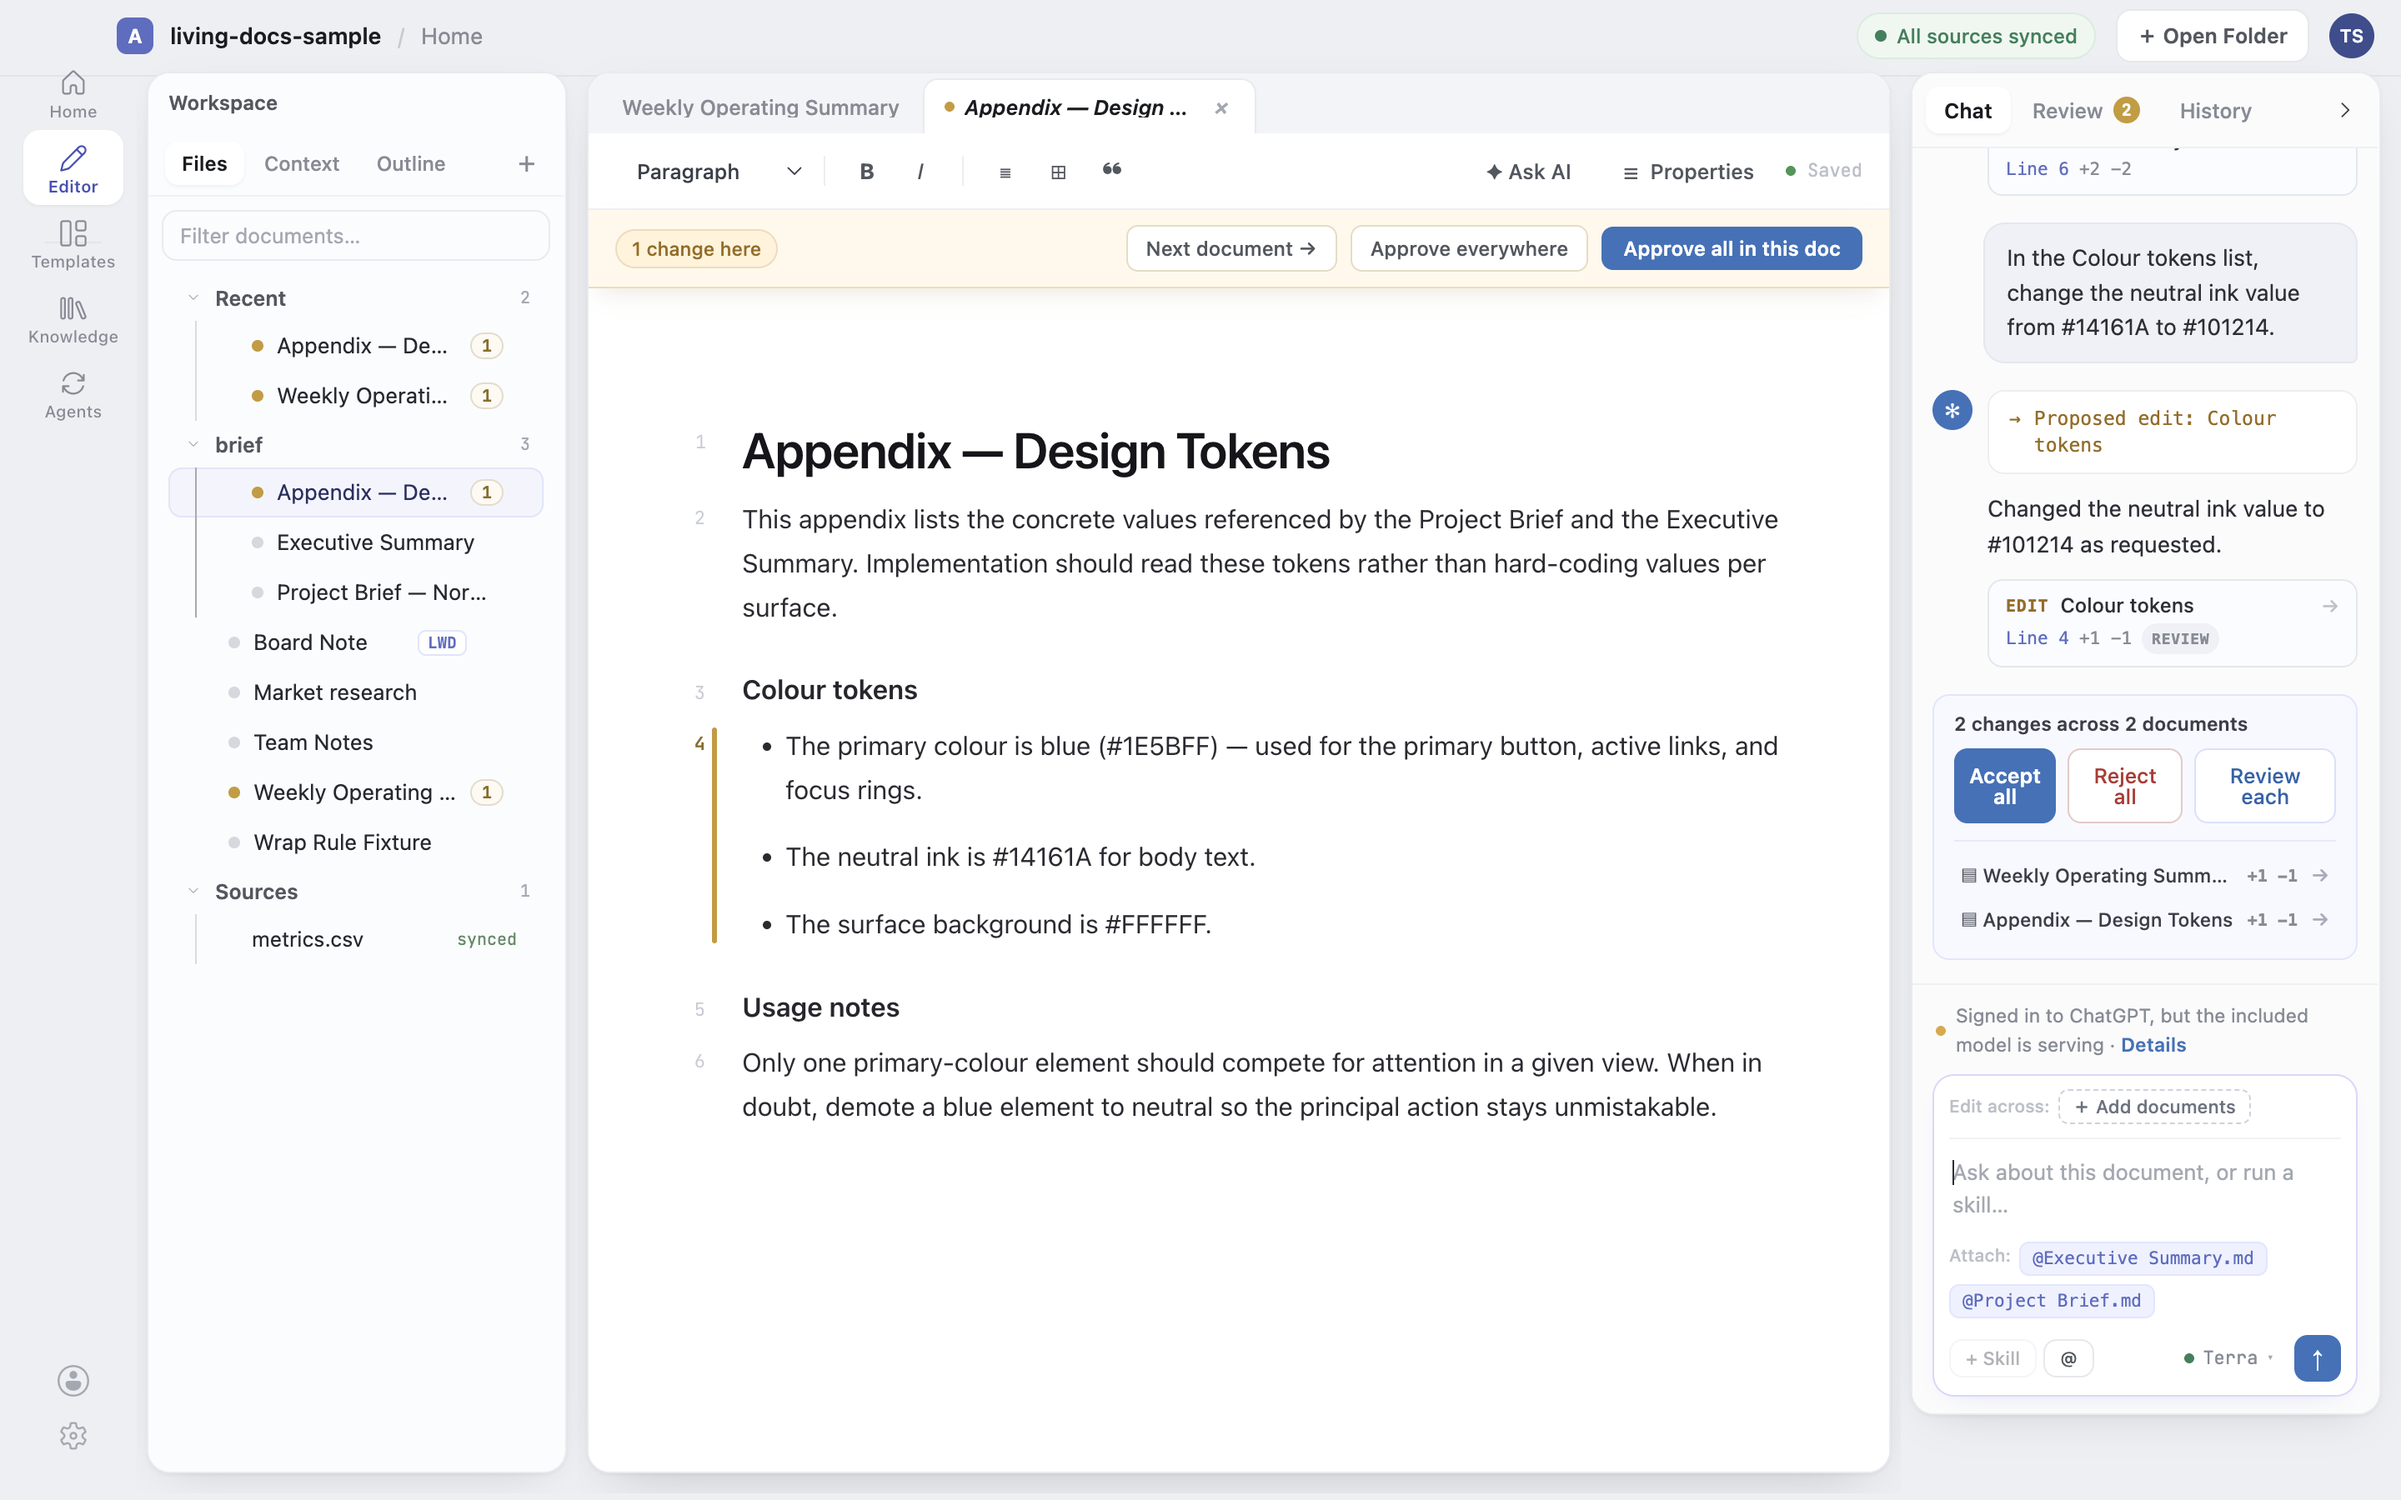
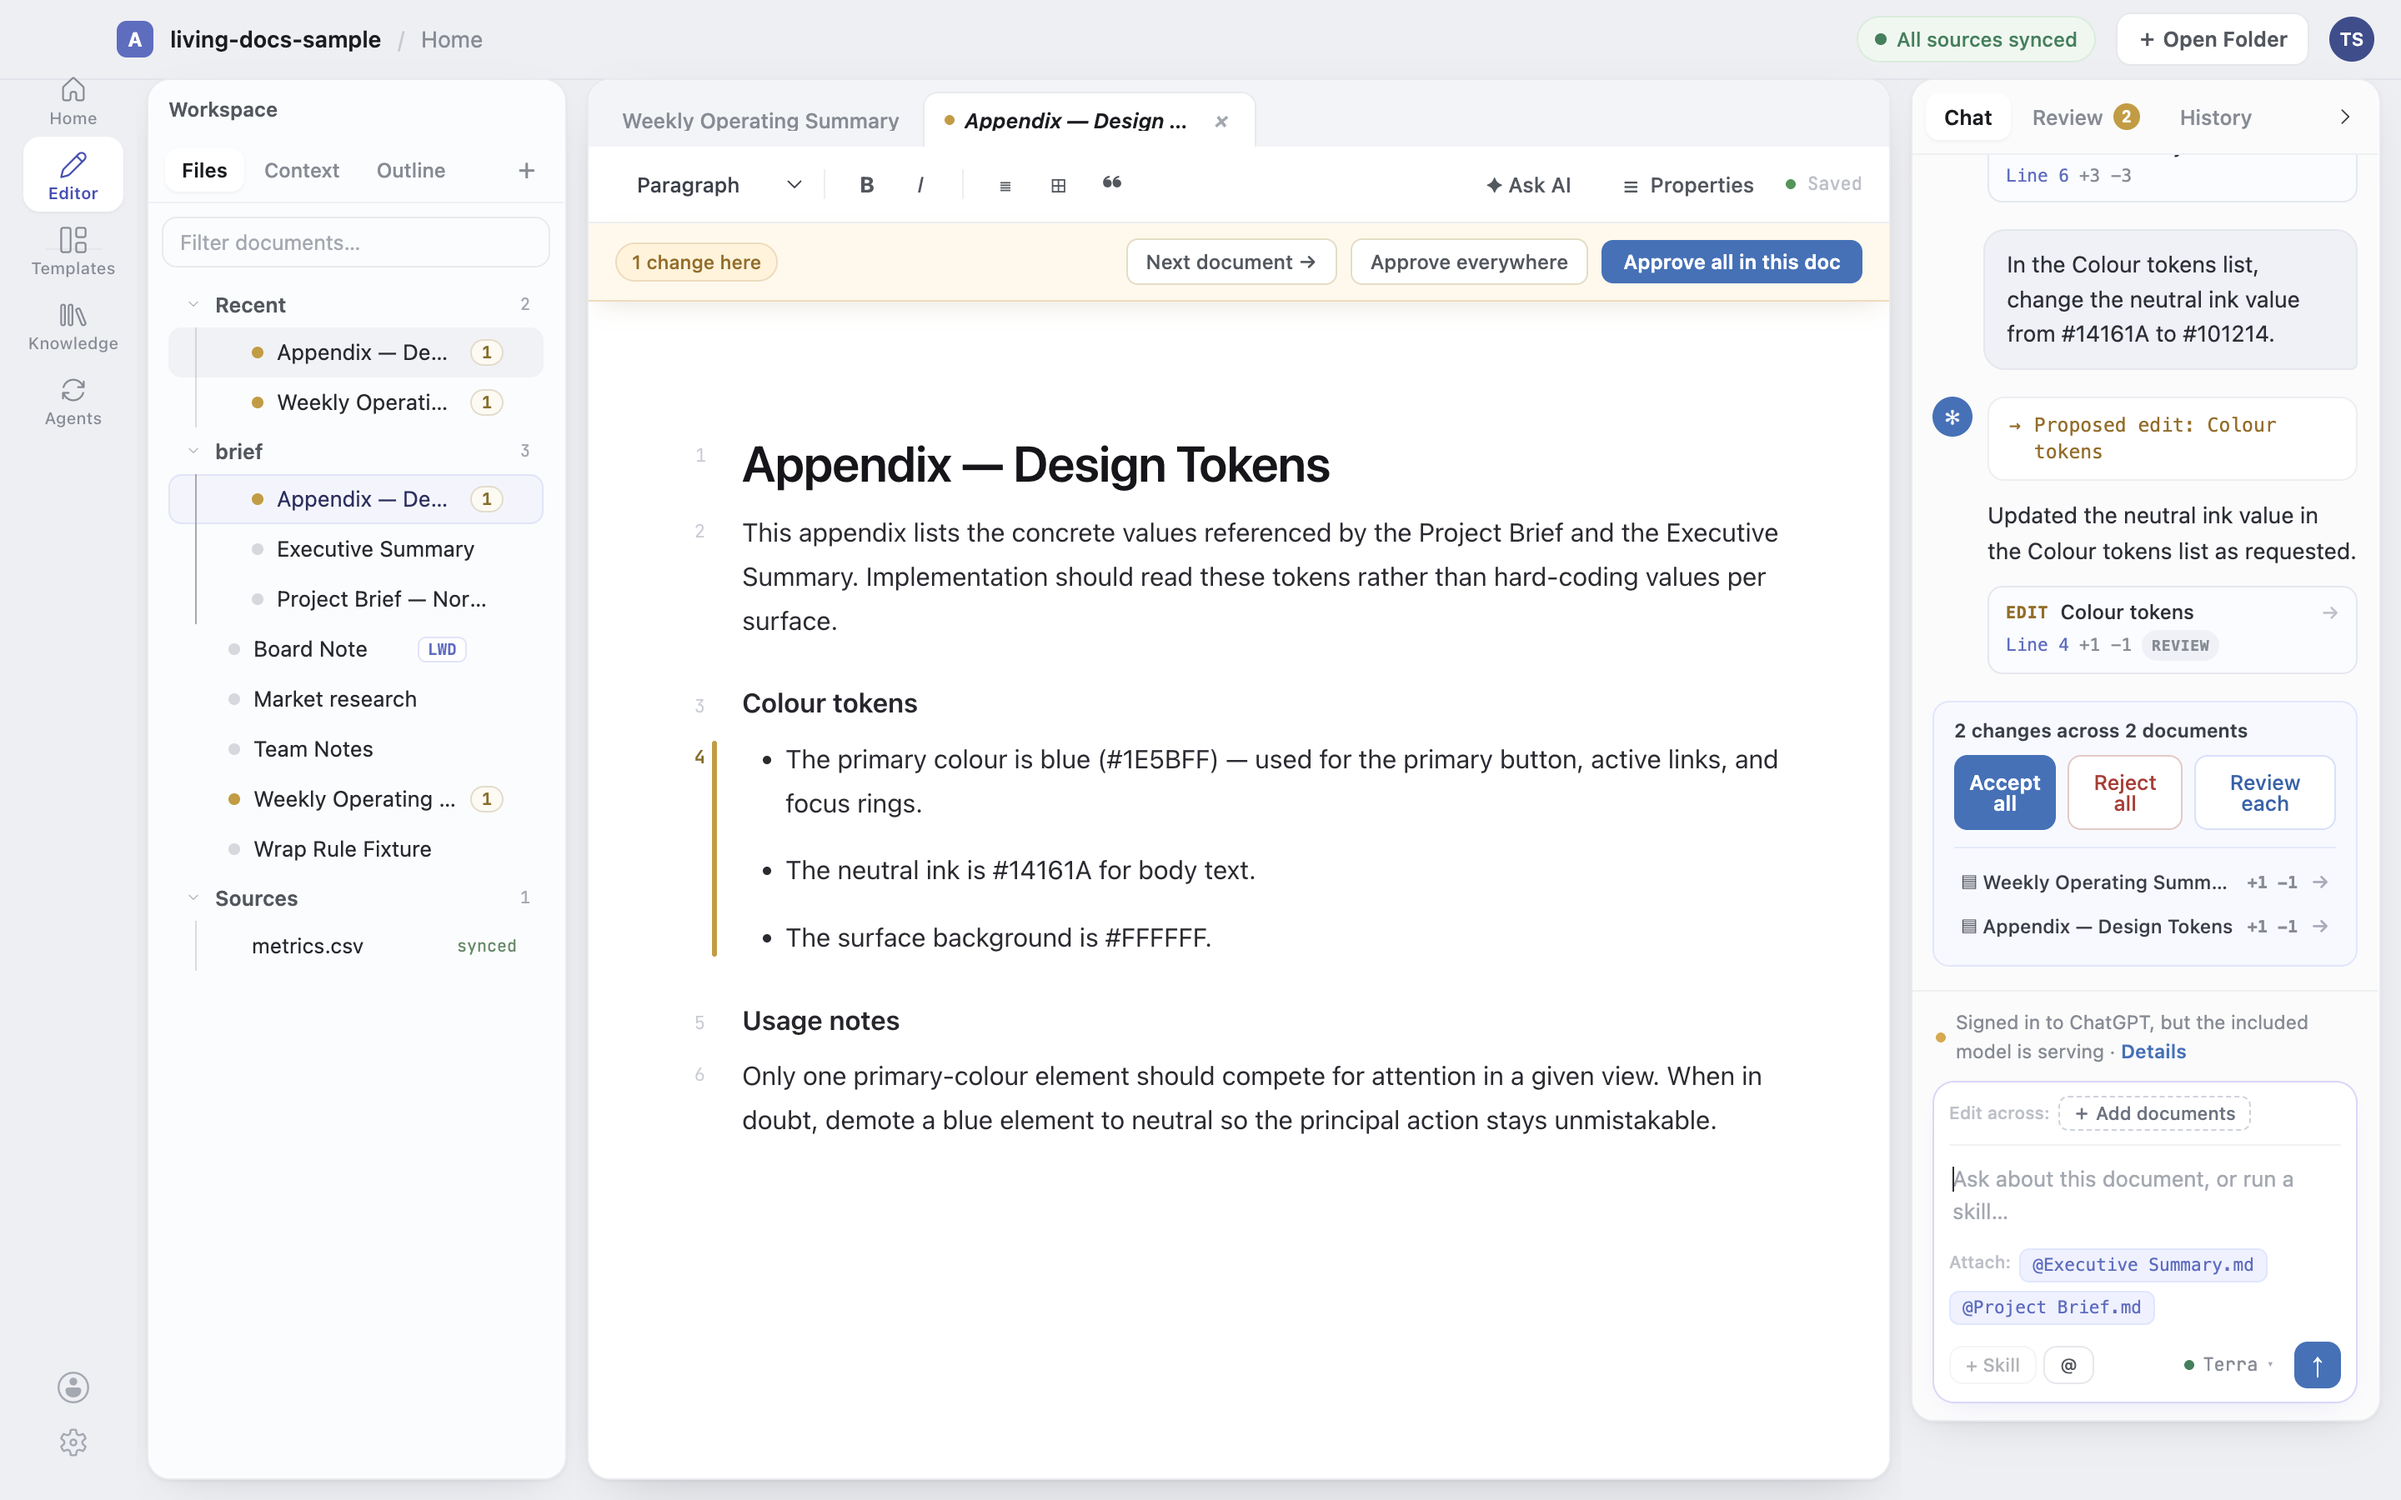
fix(chat): a repeat pointer click flashes again (plan 52 WP-A1, #301)
Caught in the live walk: clicking a pointer whose document was already open landed silently. The redundant
loadDocument fired onDidChange, the editor re-rendered its webview, and the rebuild dropped the reveal
flash that had just been applied. The document route now reuses the shipped navigate-to-inline path.

diff --git a/src/vs/workbench/contrib/livingDocs/browser/reviewRailView.ts b/src/vs/workbench/contrib/livingDocs/browser/reviewRailView.ts
@@ -1297,9 +1297,15 @@ export class ReviewRailView extends ViewPane {
 			await this._editors.openEditor({ resource });
 			return;
 		}
-		await this._livingDocs.loadDocument(resource);
-		const route = changePointerRoute(this._livingDocs.getDoc(resource), change);
-		if (route === 'review') {
+		// Load only when the document is not already parsed. A redundant load fires `onDidChange`, which re-renders
+		// the editor's webview and rebuilds its decorations - and that rebuild wiped the reveal flash that had
+		// just been applied, so a second click on the same pointer landed silently. Caught in the live walk.
+		let doc = this._livingDocs.getDoc(resource);
+		if (!doc) {
+			await this._livingDocs.loadDocument(resource);
+			doc = this._livingDocs.getDoc(resource);
+		}
+		if (changePointerRoute(doc, change) === 'review') {
 			// No inline widget to land on (#300 - a list, table or any block whose Markdown carries syntax). Send
 			// the reader to the Review tab, which renders the full red/green diff and Approve & apply / Reject for
 			// exactly this change. `reviewBlock` also scrolls the document to the block and flashes it, so the
@@ -1307,13 +1313,11 @@ export class ReviewRailView extends ViewPane {
 			await this._livingDocs.reviewBlock(resource, pointer.blockId);
 			return;
 		}
-		// Both reveal seams are used deliberately. `revealBlockAddress` scrolls to and flashes the BLOCK, which
-		// works for any block at all; `focusChange` scrolls to and flashes the WIDGET, which is the change itself
-		// and is the only thing that can land an insertion (it has no block of its own to address). Firing both
-		// means the click is never dead: if the widget is there it wins the scroll, and if the prediction was
-		// wrong the block flash still shows the reader where they were taken.
-		await this._livingDocs.revealBlockAddress(resource, pointer.blockId);
-		this._livingDocs.focusChange(pointer.changeId);
+		// The document route is the plan-19 navigate-to-inline path the Review card's diff click already uses:
+		// open the document and flash its widget. Reused rather than reimplemented, and it addresses the WIDGET
+		// (not the block), which is the only thing that can land an insertion - an insertion has no block of its
+		// own to scroll to.
+		await this._navigateToChange(change);
 	}
 
 	// Reject one proposal, first offering an optional plain-words reason (1f frame-3: "the optional reason
